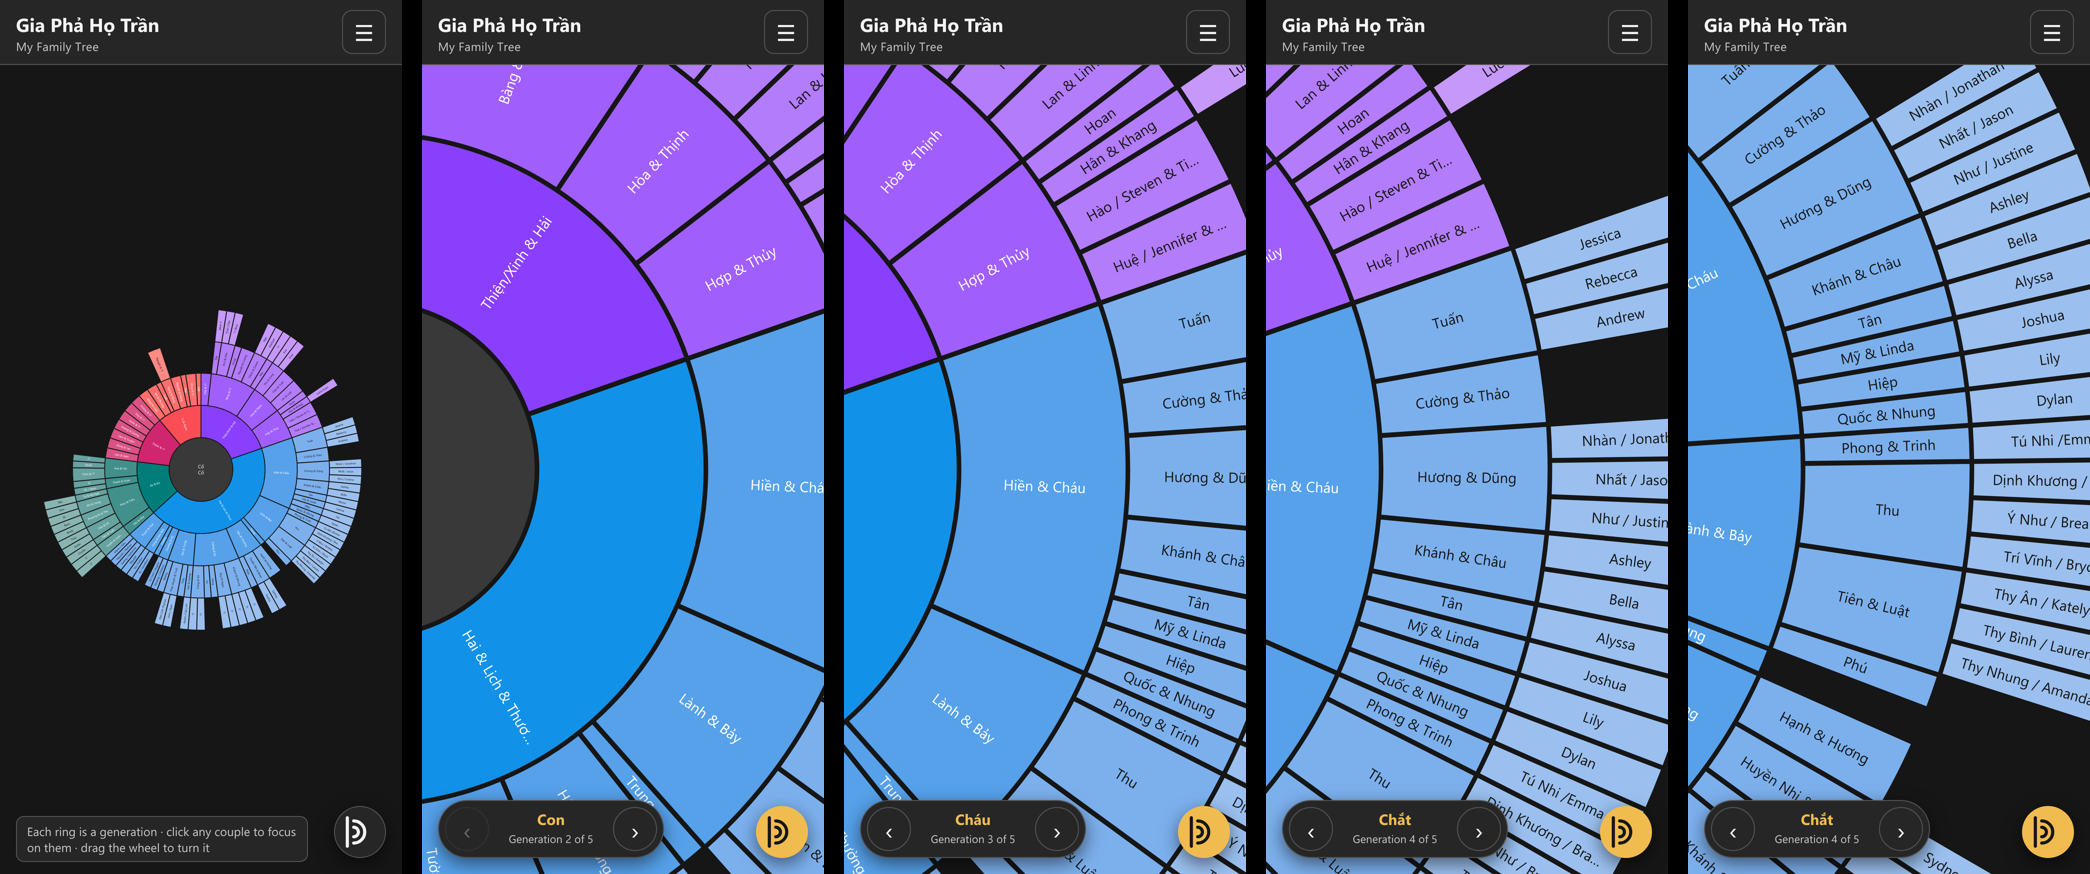
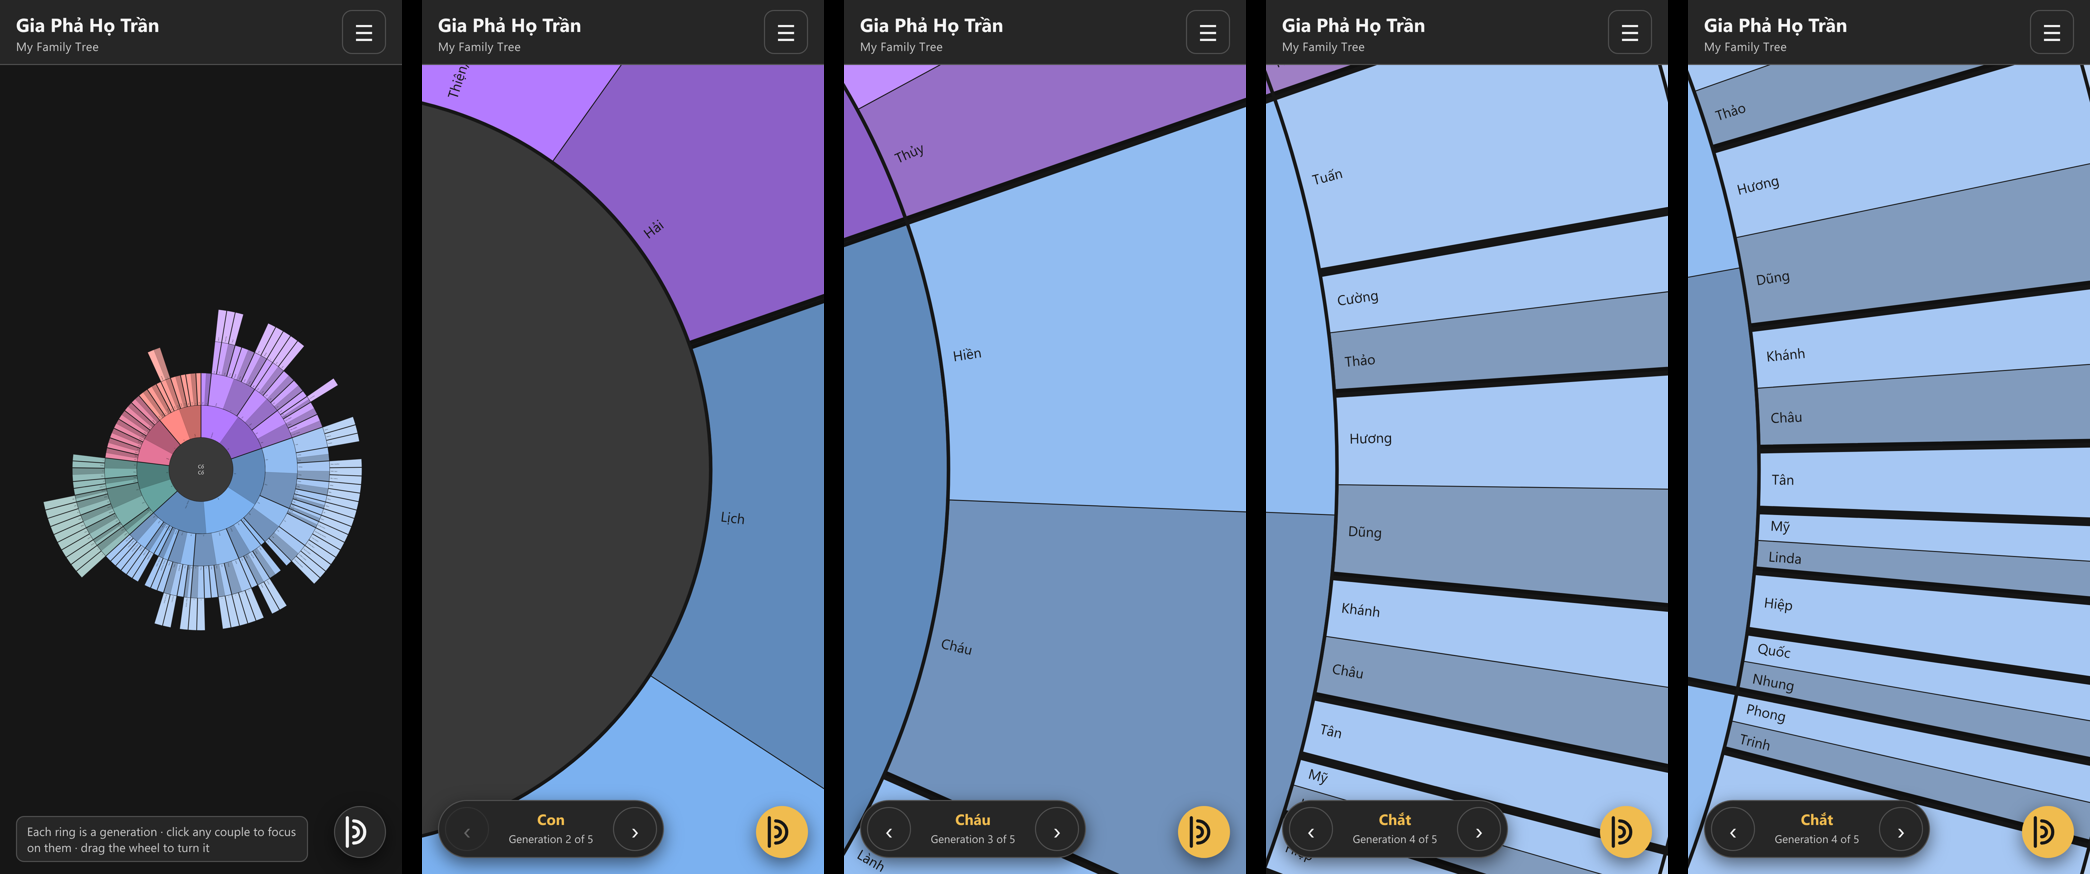
Snap zoom fits the ring to the phone width; inner edge always visible; swipe anywhere turns the wheel (Entry 52)
Claude-Session: https://claude.ai/code/session_01L5J4XGDoU485bNMdVhDAYq

diff --git a/mockups/sunburst-focus.html b/mockups/sunburst-focus.html
@@ -5791,7 +5791,7 @@ function build(){
   zoom=d3.zoom().scaleExtent([0.03,4]).on('zoom',e=>{cam.attr('transform',e.transform); placeBand(e.transform);
     if(LBL==='screen'&&mode==='sun'){ clearTimeout(LBLT); LBLT=setTimeout(()=>{ if(mode==='sun') drawArcLabels(1) },120) } });
   zoom.filter(e=>!(e.type==='wheel'&&mode==='focus'&&!e.ctrlKey)&&(!e.ctrlKey||e.type==='wheel')&&!e.button
-    &&!(mode==='sun'&&e.target.closest&&e.target.closest('path.node,.plabel')&&(e.type==='mousedown'||(e.type==='touchstart'&&e.touches.length<2))));   // one finger / mouse on the wheel rotates it (Entry 35); two fingers pinch-zoom anywhere (Entry 36)
+    &&!(mode==='sun'&&((e.target.closest&&e.target.closest('path.node,.plabel'))||SNAP)&&(e.type==='mousedown'||(e.type==='touchstart'&&e.touches.length<2))));   // Entry 52: when snapped, one finger anywhere turns the wheel   // one finger / mouse on the wheel rotates it (Entry 35); two fingers pinch-zoom anywhere (Entry 36)
   svg.call(zoom).on('dblclick.zoom',null);
   svg.on('wheel.scroll',e=>{ if(mode!=='focus'||e.ctrlKey) return; e.preventDefault();
     zoom.translateBy(svg,-e.deltaX/d3.zoomTransform(svg.node()).k,-e.deltaY/d3.zoomTransform(svg.node()).k) },{passive:false});
@@ -5822,7 +5822,7 @@ function build(){
   // Entry 35 (Hanh): drag anywhere on the wheel to rotate it around the centre. A click without dragging still focuses.
   let a0=0,r0=0; const ang=e=>{const [x,y]=d3.pointer(e,cam.node()); return Math.atan2(y,x)};
   ROTDRAG=d3.drag().clickDistance(4)
-    .filter(e=>e.type==='mousedown'&&mode==='sun'&&!busy&&!e.button)   // mouse; touch is handled below so a 2nd finger can reach the zoom
+    .filter(e=>e.type==='mousedown'&&mode==='sun'&&!busy&&!e.button&&(SNAP||!!(e.target.closest&&e.target.closest('path.node,.plabel'))))   // mouse; touch is handled below so a 2nd finger can reach the zoom
     .container(()=>cam.node())
     .on('start',e=>{a0=ang(e.sourceEvent); r0=ROT; gNodes.selectAll('path.node').style('cursor','grabbing')})
     .on('drag',e=>{ROT=r0+ang(e.sourceEvent)-a0; spinSun(true)})
@@ -5835,6 +5835,7 @@ function build(){
   ROTTOUCH=e=>{ if(mode!=='sun'||busy||e.touches.length!==1){T1=null;return}
     const t=e.touches[0]; T1={id:t.identifier,a0:tAng(t),r0:ROT,x:t.clientX,y:t.clientY,moved:false} };
   gNodes.selectAll('path.node').on('touchstart.rot',ROTTOUCH,{passive:true});
+  svg.on('touchstart.rotsnap',e=>{ if(SNAP&&mode==='sun'&&!(e.target.closest&&e.target.closest('path.node,.plabel'))) ROTTOUCH(e) },{passive:true}).call(ROTDRAG);
   svg.on('touchmove.rot',e=>{ if(!T1) return; if(e.touches.length!==1){T1=null;return}
     const t=e.touches[0]; if(t.identifier!==T1.id) return;
     if(!T1.moved&&Math.hypot(t.clientX-T1.x,t.clientY-T1.y)<6) return; T1.moved=true; e.preventDefault();
@@ -5848,8 +5849,14 @@ function spinSun(live){ arcD=new Map(nodes.map(d=>[d.id,ARC(d)])); gNodes.select
   if(live) gLabels.attr('transform',`rotate(${(ROT-LROT)*180/Math.PI})`); else drawArcLabels(1) }   // while turning, labels just ride along; redrawn upright at the end
 // Entry 40 (Hanh): snap. The wheel's centre goes to the left edge and the chosen generation's ring sits in the middle
 // of the screen as a tall band; turning the wheel (drag / one finger) scrolls that generation's people up and down.
-function snapT(g){ const W=stage.clientWidth,H=stage.clientHeight, k=Math.min(1.6,0.42*W/RING0);   // readable chips when snapped
-  return d3.zoomIdentity.translate(Math.min(0,W*0.5-(g+0.5)*RING*k),H/2).scale(k) }
+// Entry 52 (Hanh): the chosen ring fills the screen width — its inner edge (where the chip and name start) sits 12 px
+// from the left, its outer edge 12 px from the right — so the whole name panel is visible on a phone.
+// The ring is curved, so its inner edge bends left toward the top and bottom of the screen; the centre is placed so
+// the inner edge stays ≥12 px from the left at the very top/bottom, and k is shrunk until the outer edge fits too.
+function snapT(g){ const W=stage.clientWidth,H=stage.clientHeight, h=H/2-40, M=12;
+  const k=Math.min(1.6,(W-2*M)/RING), rin=g*RING*k;        // zoom = ring width fits the screen (text ≈ 14 px on a phone)
+  const cx=rin>h?M-Math.sqrt(rin*rin-h*h):M-rin;           // inner edge ≥12 px in, even near the top and bottom
+  return d3.zoomIdentity.translate(Math.min(0,cx),H/2).scale(k) }   // the empty outer end of a panel may run off the right
 function sunT(){ return SNAP?snapT(SNAPG):fitT(sunBox()) }
 function snapUI(){ const max=root?root.height:1; SNAPG=Math.max(1,Math.min(max,SNAPG));
   document.body.classList.toggle('snap',SNAP); $id('snapB').setAttribute('aria-pressed',SNAP);

diff --git a/index.html b/index.html
@@ -292,7 +292,7 @@ function build(){
   zoom=d3.zoom().scaleExtent([0.03,4]).on('zoom',e=>{cam.attr('transform',e.transform); placeBand(e.transform);
     if(LBL==='screen'&&mode==='sun'){ clearTimeout(LBLT); LBLT=setTimeout(()=>{ if(mode==='sun') drawArcLabels(1) },120) } });
   zoom.filter(e=>!(e.type==='wheel'&&mode==='focus'&&!e.ctrlKey)&&(!e.ctrlKey||e.type==='wheel')&&!e.button
-    &&!(mode==='sun'&&e.target.closest&&e.target.closest('path.node,.plabel')&&(e.type==='mousedown'||(e.type==='touchstart'&&e.touches.length<2))));   // one finger / mouse on the wheel rotates it (Entry 35); two fingers pinch-zoom anywhere (Entry 36)
+    &&!(mode==='sun'&&((e.target.closest&&e.target.closest('path.node,.plabel'))||SNAP)&&(e.type==='mousedown'||(e.type==='touchstart'&&e.touches.length<2))));   // Entry 52: when snapped, one finger anywhere turns the wheel   // one finger / mouse on the wheel rotates it (Entry 35); two fingers pinch-zoom anywhere (Entry 36)
   svg.call(zoom).on('dblclick.zoom',null);
   svg.on('wheel.scroll',e=>{ if(mode!=='focus'||e.ctrlKey) return; e.preventDefault();
     zoom.translateBy(svg,-e.deltaX/d3.zoomTransform(svg.node()).k,-e.deltaY/d3.zoomTransform(svg.node()).k) },{passive:false});
@@ -323,7 +323,7 @@ function build(){
   // Entry 35 (Hanh): drag anywhere on the wheel to rotate it around the centre. A click without dragging still focuses.
   let a0=0,r0=0; const ang=e=>{const [x,y]=d3.pointer(e,cam.node()); return Math.atan2(y,x)};
   ROTDRAG=d3.drag().clickDistance(4)
-    .filter(e=>e.type==='mousedown'&&mode==='sun'&&!busy&&!e.button)   // mouse; touch is handled below so a 2nd finger can reach the zoom
+    .filter(e=>e.type==='mousedown'&&mode==='sun'&&!busy&&!e.button&&(SNAP||!!(e.target.closest&&e.target.closest('path.node,.plabel'))))   // mouse; touch is handled below so a 2nd finger can reach the zoom
     .container(()=>cam.node())
     .on('start',e=>{a0=ang(e.sourceEvent); r0=ROT; gNodes.selectAll('path.node').style('cursor','grabbing')})
     .on('drag',e=>{ROT=r0+ang(e.sourceEvent)-a0; spinSun(true)})
@@ -336,6 +336,7 @@ function build(){
   ROTTOUCH=e=>{ if(mode!=='sun'||busy||e.touches.length!==1){T1=null;return}
     const t=e.touches[0]; T1={id:t.identifier,a0:tAng(t),r0:ROT,x:t.clientX,y:t.clientY,moved:false} };
   gNodes.selectAll('path.node').on('touchstart.rot',ROTTOUCH,{passive:true});
+  svg.on('touchstart.rotsnap',e=>{ if(SNAP&&mode==='sun'&&!(e.target.closest&&e.target.closest('path.node,.plabel'))) ROTTOUCH(e) },{passive:true}).call(ROTDRAG);
   svg.on('touchmove.rot',e=>{ if(!T1) return; if(e.touches.length!==1){T1=null;return}
     const t=e.touches[0]; if(t.identifier!==T1.id) return;
     if(!T1.moved&&Math.hypot(t.clientX-T1.x,t.clientY-T1.y)<6) return; T1.moved=true; e.preventDefault();
@@ -349,8 +350,14 @@ function spinSun(live){ arcD=new Map(nodes.map(d=>[d.id,ARC(d)])); gNodes.select
   if(live) gLabels.attr('transform',`rotate(${(ROT-LROT)*180/Math.PI})`); else drawArcLabels(1) }   // while turning, labels just ride along; redrawn upright at the end
 // Entry 40 (Hanh): snap. The wheel's centre goes to the left edge and the chosen generation's ring sits in the middle
 // of the screen as a tall band; turning the wheel (drag / one finger) scrolls that generation's people up and down.
-function snapT(g){ const W=stage.clientWidth,H=stage.clientHeight, k=Math.min(1.6,0.42*W/RING0);   // readable chips when snapped
-  return d3.zoomIdentity.translate(Math.min(0,W*0.5-(g+0.5)*RING*k),H/2).scale(k) }
+// Entry 52 (Hanh): the chosen ring fills the screen width — its inner edge (where the chip and name start) sits 12 px
+// from the left, its outer edge 12 px from the right — so the whole name panel is visible on a phone.
+// The ring is curved, so its inner edge bends left toward the top and bottom of the screen; the centre is placed so
+// the inner edge stays ≥12 px from the left at the very top/bottom, and k is shrunk until the outer edge fits too.
+function snapT(g){ const W=stage.clientWidth,H=stage.clientHeight, h=H/2-40, M=12;
+  const k=Math.min(1.6,(W-2*M)/RING), rin=g*RING*k;        // zoom = ring width fits the screen (text ≈ 14 px on a phone)
+  const cx=rin>h?M-Math.sqrt(rin*rin-h*h):M-rin;           // inner edge ≥12 px in, even near the top and bottom
+  return d3.zoomIdentity.translate(Math.min(0,cx),H/2).scale(k) }   // the empty outer end of a panel may run off the right
 function sunT(){ return SNAP?snapT(SNAPG):fitT(sunBox()) }
 function snapUI(){ const max=root?root.height:1; SNAPG=Math.max(1,Math.min(max,SNAPG));
   document.body.classList.toggle('snap',SNAP); $id('snapB').setAttribute('aria-pressed',SNAP);

diff --git a/mockups/sunburst-focus.template.html b/mockups/sunburst-focus.template.html
@@ -275,7 +275,7 @@ function build(){
   zoom=d3.zoom().scaleExtent([0.03,4]).on('zoom',e=>{cam.attr('transform',e.transform); placeBand(e.transform);
     if(LBL==='screen'&&mode==='sun'){ clearTimeout(LBLT); LBLT=setTimeout(()=>{ if(mode==='sun') drawArcLabels(1) },120) } });
   zoom.filter(e=>!(e.type==='wheel'&&mode==='focus'&&!e.ctrlKey)&&(!e.ctrlKey||e.type==='wheel')&&!e.button
-    &&!(mode==='sun'&&e.target.closest&&e.target.closest('path.node,.plabel')&&(e.type==='mousedown'||(e.type==='touchstart'&&e.touches.length<2))));   // one finger / mouse on the wheel rotates it (Entry 35); two fingers pinch-zoom anywhere (Entry 36)
+    &&!(mode==='sun'&&((e.target.closest&&e.target.closest('path.node,.plabel'))||SNAP)&&(e.type==='mousedown'||(e.type==='touchstart'&&e.touches.length<2))));   // Entry 52: when snapped, one finger anywhere turns the wheel   // one finger / mouse on the wheel rotates it (Entry 35); two fingers pinch-zoom anywhere (Entry 36)
   svg.call(zoom).on('dblclick.zoom',null);
   svg.on('wheel.scroll',e=>{ if(mode!=='focus'||e.ctrlKey) return; e.preventDefault();
     zoom.translateBy(svg,-e.deltaX/d3.zoomTransform(svg.node()).k,-e.deltaY/d3.zoomTransform(svg.node()).k) },{passive:false});
@@ -306,7 +306,7 @@ function build(){
   // Entry 35 (Hanh): drag anywhere on the wheel to rotate it around the centre. A click without dragging still focuses.
   let a0=0,r0=0; const ang=e=>{const [x,y]=d3.pointer(e,cam.node()); return Math.atan2(y,x)};
   ROTDRAG=d3.drag().clickDistance(4)
-    .filter(e=>e.type==='mousedown'&&mode==='sun'&&!busy&&!e.button)   // mouse; touch is handled below so a 2nd finger can reach the zoom
+    .filter(e=>e.type==='mousedown'&&mode==='sun'&&!busy&&!e.button&&(SNAP||!!(e.target.closest&&e.target.closest('path.node,.plabel'))))   // mouse; touch is handled below so a 2nd finger can reach the zoom
     .container(()=>cam.node())
     .on('start',e=>{a0=ang(e.sourceEvent); r0=ROT; gNodes.selectAll('path.node').style('cursor','grabbing')})
     .on('drag',e=>{ROT=r0+ang(e.sourceEvent)-a0; spinSun(true)})
@@ -319,6 +319,7 @@ function build(){
   ROTTOUCH=e=>{ if(mode!=='sun'||busy||e.touches.length!==1){T1=null;return}
     const t=e.touches[0]; T1={id:t.identifier,a0:tAng(t),r0:ROT,x:t.clientX,y:t.clientY,moved:false} };
   gNodes.selectAll('path.node').on('touchstart.rot',ROTTOUCH,{passive:true});
+  svg.on('touchstart.rotsnap',e=>{ if(SNAP&&mode==='sun'&&!(e.target.closest&&e.target.closest('path.node,.plabel'))) ROTTOUCH(e) },{passive:true}).call(ROTDRAG);
   svg.on('touchmove.rot',e=>{ if(!T1) return; if(e.touches.length!==1){T1=null;return}
     const t=e.touches[0]; if(t.identifier!==T1.id) return;
     if(!T1.moved&&Math.hypot(t.clientX-T1.x,t.clientY-T1.y)<6) return; T1.moved=true; e.preventDefault();
@@ -332,8 +333,14 @@ function spinSun(live){ arcD=new Map(nodes.map(d=>[d.id,ARC(d)])); gNodes.select
   if(live) gLabels.attr('transform',`rotate(${(ROT-LROT)*180/Math.PI})`); else drawArcLabels(1) }   // while turning, labels just ride along; redrawn upright at the end
 // Entry 40 (Hanh): snap. The wheel's centre goes to the left edge and the chosen generation's ring sits in the middle
 // of the screen as a tall band; turning the wheel (drag / one finger) scrolls that generation's people up and down.
-function snapT(g){ const W=stage.clientWidth,H=stage.clientHeight, k=Math.min(1.6,0.42*W/RING0);   // readable chips when snapped
-  return d3.zoomIdentity.translate(Math.min(0,W*0.5-(g+0.5)*RING*k),H/2).scale(k) }
+// Entry 52 (Hanh): the chosen ring fills the screen width — its inner edge (where the chip and name start) sits 12 px
+// from the left, its outer edge 12 px from the right — so the whole name panel is visible on a phone.
+// The ring is curved, so its inner edge bends left toward the top and bottom of the screen; the centre is placed so
+// the inner edge stays ≥12 px from the left at the very top/bottom, and k is shrunk until the outer edge fits too.
+function snapT(g){ const W=stage.clientWidth,H=stage.clientHeight, h=H/2-40, M=12;
+  const k=Math.min(1.6,(W-2*M)/RING), rin=g*RING*k;        // zoom = ring width fits the screen (text ≈ 14 px on a phone)
+  const cx=rin>h?M-Math.sqrt(rin*rin-h*h):M-rin;           // inner edge ≥12 px in, even near the top and bottom
+  return d3.zoomIdentity.translate(Math.min(0,cx),H/2).scale(k) }   // the empty outer end of a panel may run off the right
 function sunT(){ return SNAP?snapT(SNAPG):fitT(sunBox()) }
 function snapUI(){ const max=root?root.height:1; SNAPG=Math.max(1,Math.min(max,SNAPG));
   document.body.classList.toggle('snap',SNAP); $id('snapB').setAttribute('aria-pressed',SNAP);

diff --git a/tools/tests/sw.js b/tools/tests/sw.js
@@ -1,0 +1,12 @@
+const {chromium}=require('playwright-core');
+(async()=>{const S=process.argv[2];const b=await chromium.launch({executablePath:'/opt/pw-browsers/chromium'});
+const ctx=await b.newContext({viewport:{width:402,height:874},hasTouch:true,isMobile:true});const p=await ctx.newPage();const errs=[];p.on('pageerror',e=>errs.push(e.message));
+await p.goto('file://'+S+'/mock/family-tree.html?nointro');await p.waitForFunction(()=>window.__ready);
+await p.tap('#snapB');await p.waitForTimeout(700);await p.tap('#genNext');await p.waitForTimeout(700);await p.tap('#genNext');await p.waitForTimeout(700);
+const cdp=await ctx.newCDPSession(p);const T=(t,pts)=>cdp.send('Input.dispatchTouchEvent',{type:t,touchPoints:pts.map(([x,y],i)=>({x,y,id:i}))});
+for(const x of [100,300]){
+ const before=await p.evaluate(()=>[ROT.toFixed(3),d3.zoomTransform(svg.node()).toString()]);
+ const hit=await p.evaluate(x=>document.elementsFromPoint(x,600).slice(0,5).map(e=>e.tagName+'.'+e.getAttribute('class')+(e.__data__&&e.__data__.data?'['+e.__data__.data.members[0].name+' d'+e.__data__.depth+']':'')).join(' > '),x);
+ await T('touchStart',[[x,600]]);for(let i=1;i<=10;i++)await T('touchMove',[[x,600-i*25]]);await T('touchEnd',[]);await p.waitForTimeout(400);
+ console.log(x,hit,before,await p.evaluate(()=>[ROT.toFixed(3),d3.zoomTransform(svg.node()).toString()]));}
+console.log(errs);await b.close();})();

diff --git a/tools/tests/snap.js b/tools/tests/snap.js
@@ -10,5 +10,5 @@ await p.tap('#genNext');await shot(3);
 await p.tap('#genNext');await shot(4);
 // one-finger swipe up on the band = turn the wheel
 const cdp=await ctx.newCDPSession(p);const T=(t,pts)=>cdp.send('Input.dispatchTouchEvent',{type:t,touchPoints:pts.map(([x,y],i)=>({x,y,id:i}))});
-await T('touchStart',[[220,600]]);for(let i=1;i<=12;i++)await T('touchMove',[[220,600-i*25]]);await T('touchEnd',[]);await shot(5);
+await T('touchStart',[[300,600]]);for(let i=1;i<=12;i++)await T('touchMove',[[300,600-i*25]]);await T('touchEnd',[]);await shot(5);
 console.log('errors',errs, await p.evaluate(()=>({SNAP,SNAPG,ROT:+ROT.toFixed(2)})));await b.close();})();

diff --git a/SESSION_LEDGER.md b/SESSION_LEDGER.md
@@ -932,3 +932,15 @@ Then: "Ông Thiện is Ông Hai's older brother." "Tường is Bà Thương's da
   would be 16 px). Chips shrink with it, and the wheels shrink to match: Paternal ×2.94, Maternal ×1.37, Huong's
   Paternal ×1.59, Huong's Maternal ×1.26. Thinnest panels still fit (`mockups/sunburst-thinnest-12.png`). Snap and
   tap/double-tap tests pass. index.html rebuilt.
+
+## Entry 52 (2026-10-24) — Snap zoom redone for phones (iPhone 402×874)
+
+- Hanh: "the font size change broke the left snap to rotate function on mobile. The zoom is too much and doesn't show
+  the inner part of the name panel. Redo the zoom for an iPhone 18." Cause: the bigger rings (Entries 47–51) made the
+  snapped ring wider than the screen, so the inner end of each panel (chip + name) sat off the left edge.
+- **Fix (locked by Hanh's request):** snapped zoom = the ring's width fits the screen (W − 24 px → text ≈ 14 px on a
+  phone). The wheel's centre is placed so the ring's curved inner edge stays ≥ 12 px from the left even near the top
+  and bottom of the screen; the empty outer end of a panel may run off the right. While snapped, one finger anywhere
+  (also empty space) turns the wheel; two fingers still pinch.
+- Verified on an emulated 402×874 phone: Con / Cháu / Chắt names start on screen; swipe on a panel or empty space turns
+  the wheel; rotate, pinch, tap/double-tap, Back tests pass. Preview `mockups/snap-iphone.png`. index.html rebuilt.
